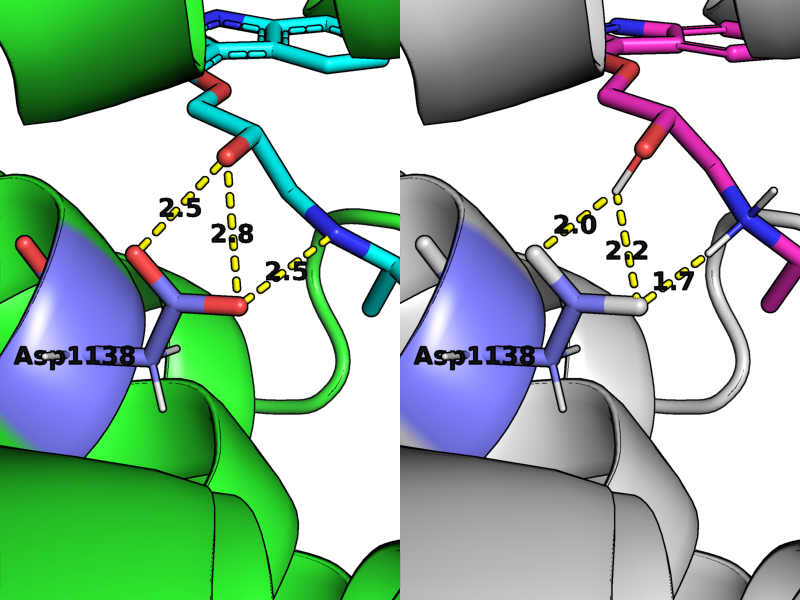
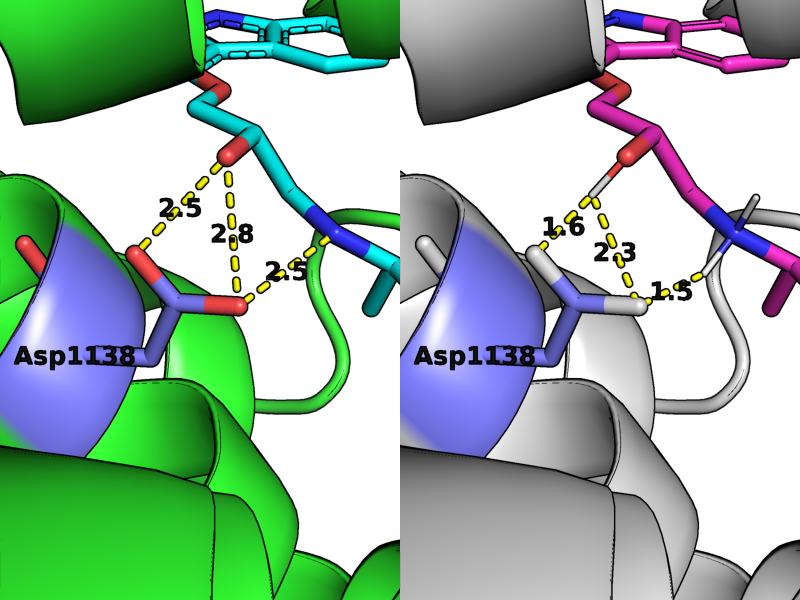
7BVQ

diff --git a/AutoDock-7BVQ/README.md b/AutoDock-7BVQ/README.md
@@ -15,8 +15,9 @@ mode |   affinity | dist from best mode
 RMSD = 0.623
 ```
 <p align="center">
-<img src="ligand.webp" alt="360° Spinning Overlay of Crystal vs Redocked Carazolol" height="100" width="100">&nbsp;
-<img src="screenshot1.png" height="100" width="100"/>
+<img src="ligand.webp" height="100" width="100" alt="360° Spinning Overlay of Crystal vs Redocked Carazolol" title="360° Spinning Overlay of Crystal vs Redocked Carazolol" >&nbsp;
+<img src="screenshot1.png" height="100" width="100" alt="original" title="original"/>&nbsp;
+<img src="screenshot2.png" height="100" width="100" alt="redocked" title="redocked"/>
 </p>
 
 
